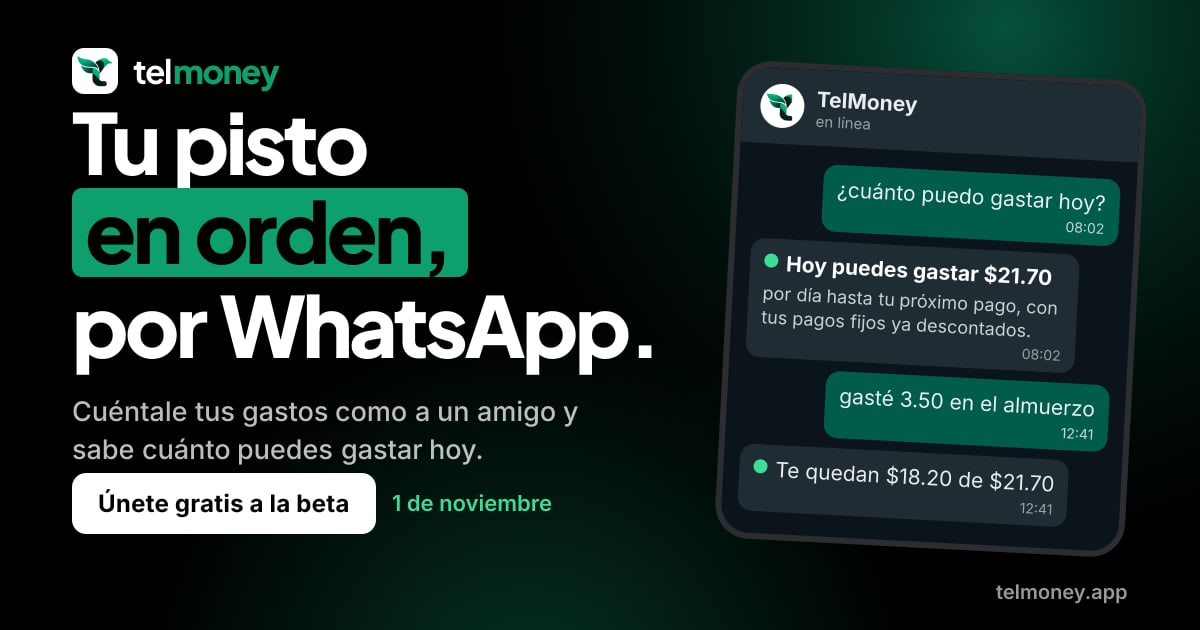
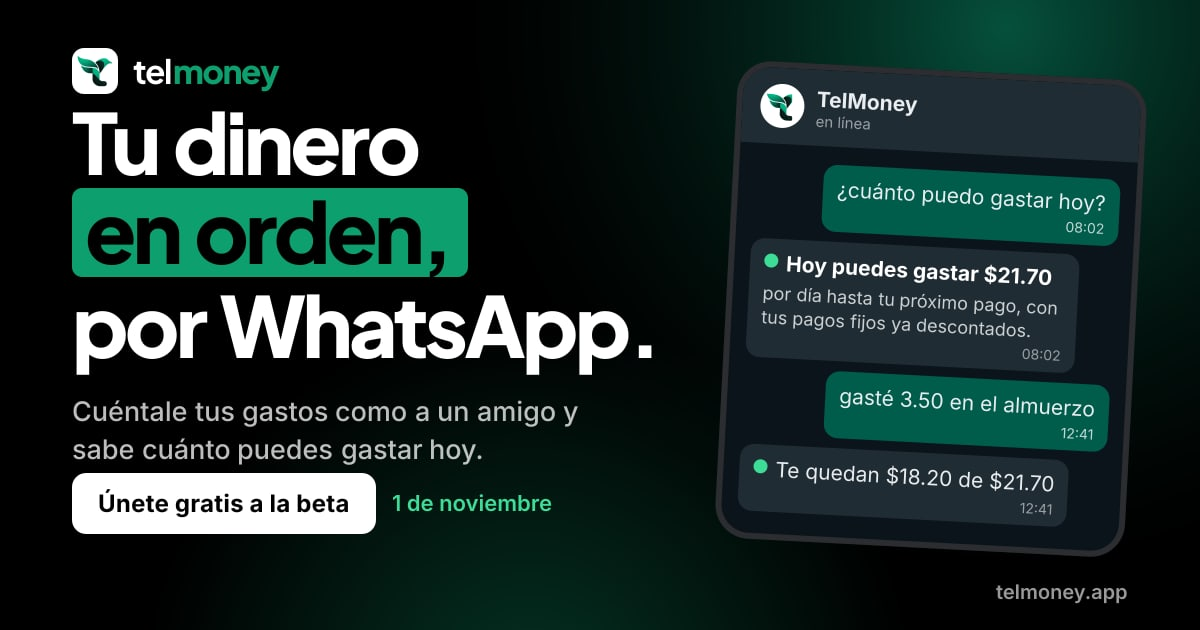
feat(copy): «dinero» en lugar del modismo local en todo el sitio
La página va a llegar a gente de varios países: todos los textos
públicos usan «dinero». Cambian el lema («Tu dinero en orden, por
WhatsApp»), el título de Google (61 caracteres, 571 px: entra completo),
og:title, el texto alternativo de la imagen, las imágenes para compartir
(regeneradas, ?v=3), los mensajes de los botones, el formulario, el footer
y la documentación.

La opción «Llegar a fin de mes con dinero» cambió de texto: se pidió al
endpoint del bot que la acepte (y que siga aceptando la anterior).

Changed region(s): [[0.1233, 0.181, 0.37, 0.3016]]

diff --git a/src/seo/meta.ts b/src/seo/meta.ts
@@ -17,26 +17,26 @@ export const SEO = {
   /** Facebook no reconoce es_SV: para Latinoamérica usa es_LA. */
   ogLocale: 'es_LA',
 
-  /** 60 caracteres: marca + lo que se busca + el lema. */
-  title: 'TelMoney: control de gastos por WhatsApp | Tu pisto en orden',
+  /** 61 caracteres / 571 px (Google corta cerca de 580 px): marca + lo que se busca + el lema. */
+  title: 'TelMoney: control de gastos por WhatsApp | Tu dinero en orden',
   /** ≈150 caracteres: qué hace, el beneficio y el llamado a la acción. */
   description: LAUNCHED
     ? 'Anota tus gastos con un mensaje, un audio o la foto del recibo. TelMoney te dice cuánto puedes gastar hoy y te avisa antes de cada pago. Pruébalo gratis.'
     : 'Anota tus gastos con un mensaje, un audio o la foto del recibo. TelMoney te dice cuánto puedes gastar hoy y te avisa antes de cada pago. Únete a la beta.',
 
   /** Para redes: el lema manda; el nombre ya aparece como og:site_name. */
-  ogTitle: 'Tu pisto en orden, por WhatsApp',
+  ogTitle: 'Tu dinero en orden, por WhatsApp',
   ogDescription: `Sabe cuánto puedes gastar hoy con un mensaje de WhatsApp. ${CTA_SOCIAL}`,
 
   /** Imagen para compartir: 1200×630 (1.91:1), JPEG liviano (WhatsApp no muestra imágenes pesadas).
    *  Se genera con «npm run og» (scripts/og.mjs). Si cambia el diseño, sube el número de ?v=
    *  para que WhatsApp y Facebook no sigan mostrando la versión vieja guardada en caché. */
   image: {
-    path: '/og/telmoney-og.jpg?v=2',
+    path: '/og/telmoney-og.jpg?v=3',
     width: 1200,
     height: 630,
     type: 'image/jpeg',
-    alt: 'TelMoney: tu pisto en orden, por WhatsApp. Un chat responde «Hoy puedes gastar $21.70».',
+    alt: 'TelMoney: tu dinero en orden, por WhatsApp. Un chat responde «Hoy puedes gastar $21.70».',
   },
 };
 

diff --git a/src/seo/share.ts b/src/seo/share.ts
@@ -21,8 +21,8 @@ const CTA = LAUNCHED ? 'Pruébalo gratis 7 días' : 'La beta abre el 1 de noviem
 
 export const shareText = {
   chat: `Mira esto 👀 TelMoney te dice cuánto puedes gastar hoy, solo con mensajes de WhatsApp. ${CTA}:`,
-  x: `Tu pisto en orden, por WhatsApp 💚 Le escribes tus gastos como a un amigo y te dice cuánto puedes gastar hoy. ${CTA} 👇`,
-  emailSubject: 'Para que el pisto te alcance todo el mes',
+  x: `Tu dinero en orden, por WhatsApp 💚 Le escribes tus gastos como a un amigo y te dice cuánto puedes gastar hoy. ${CTA} 👇`,
+  emailSubject: 'Para que el dinero te alcance todo el mes',
   emailBody: `Encontré TelMoney: le escribes tus gastos por WhatsApp como a un amigo y te dice cuánto puedes gastar hoy, con tus pagos fijos ya descontados. ${CTA}:`,
 };
 

diff --git a/src/config.ts b/src/config.ts
@@ -32,7 +32,7 @@ export const SITE = {
   name: 'TelMoney',
   /** Dominio público (sin «/» final). Las imágenes para compartir necesitan URLs absolutas. */
   url: (env.PUBLIC_SITE_URL || 'https://telmoney.app').replace(/\/$/, ''),
-  tagline: 'Tu pisto en orden, por WhatsApp.',
+  tagline: 'Tu dinero en orden, por WhatsApp.',
   instagram: 'https://instagram.com/telmoney.sv',
   tiktok: 'https://tiktok.com/@telmoney.sv',
   /** Usuario de X sin «@». Vacío = no se publica twitter:site. */

diff --git a/docs/seo-y-redes.md b/docs/seo-y-redes.md
@@ -8,7 +8,7 @@ Cómo encuentra Google a TelMoney, cómo se ve el link cuando alguien lo compart
 |---|---|---|
 | Imagen al compartir (`og:image`) | ❌ No había: el link salía sin imagen | ✅ 1200×630, 70 KB, con el lema, la prueba (chat) y el llamado a la acción |
 | Tarjeta de X | Solo el tipo | ✅ Título, descripción, imagen y texto alternativo |
-| Título para Google | «TelMoney · Tu pisto en orden, por WhatsApp» (sin lo que la gente busca) | ✅ «TelMoney: control de gastos por WhatsApp \| Tu pisto en orden» (60) |
+| Título para Google | Solo la marca y el lema, sin lo que la gente busca | ✅ «TelMoney: control de gastos por WhatsApp \| Tu dinero en orden» (61 caracteres, 571 px: entra sin cortarse) |
 | Descripción | Buena, sin llamado a la acción | ✅ 153 caracteres, termina en «Únete a la beta» |
 | Título y descripción al compartir | Los mismos que para Google | ✅ Propios: el lema y una frase de ~90 caracteres que entra completa en WhatsApp |
 | Idioma para redes | `es_SV` (Facebook no lo reconoce) | ✅ `es_LA`; página en `lang="es"` |
@@ -21,19 +21,19 @@ Cómo encuentra Google a TelMoney, cómo se ve el link cuando alguien lo compart
 
 ## 2. Mensajes
 
-- **Lema:** «Tu pisto en orden, por WhatsApp.»
+- **Lema:** «Tu dinero en orden, por WhatsApp.» Se usa «dinero» y no modismos locales, para que lo entienda gente de cualquier país.
 - **Promesa en una línea:** «Sabe cuánto puedes gastar hoy con un mensaje de WhatsApp.»
 - **Llamado a la acción:** hasta el 1/11, «Únete gratis a la beta · 1 de noviembre». Desde el lanzamiento, «Pruébalo gratis 7 días». Cambia solo con `PUBLIC_WHATSAPP_NUMBER`.
 
 | Dónde | Texto | Por qué |
 |---|---|---|
-| Google (título) | TelMoney: control de gastos por WhatsApp \| Tu pisto en orden | Lo que se busca va al principio; el lema da la personalidad |
+| Google (título) | TelMoney: control de gastos por WhatsApp \| Tu dinero en orden | Lo que se busca va al principio; el lema da la personalidad |
 | Google (descripción) | Anota tus gastos con un mensaje, un audio o la foto del recibo… Únete a la beta. | Cómo se usa, el beneficio y la acción |
-| Al compartir (título) | Tu pisto en orden, por WhatsApp | El nombre ya aparece aparte (`og:site_name`) |
+| Al compartir (título) | Tu dinero en orden, por WhatsApp | El nombre ya aparece aparte (`og:site_name`) |
 | Al compartir (descripción) | Sabe cuánto puedes gastar hoy con un mensaje de WhatsApp. Beta gratis el 1 de noviembre. | Entra completa en las 2 líneas de WhatsApp |
 | Botón WhatsApp / Telegram | Mira esto 👀 TelMoney te dice cuánto puedes gastar hoy… La beta abre el 1 de noviembre y es gratis: | Suena a un amigo, no a un anuncio |
-| Botón X | Tu pisto en orden, por WhatsApp 💚 … 👇 | Corto, con el lema |
-| Correo | Asunto: «Para que el pisto te alcance todo el mes» | Beneficio en el asunto |
+| Botón X | Tu dinero en orden, por WhatsApp 💚 … 👇 | Corto, con el lema |
+| Correo | Asunto: «Para que el dinero te alcance todo el mes» | Beneficio en el asunto |
 
 Todos los textos viven en `src/seo/meta.ts` y `src/seo/share.ts`.
 

diff --git a/docs/resumen-de-trabajo.md b/docs/resumen-de-trabajo.md
@@ -58,20 +58,29 @@ Qué se hizo, dónde está y qué queda pendiente. Para revisar con calma.
 La guía completa está en [`seo-y-redes.md`](seo-y-redes.md). En resumen:
 
 - **Google:**
-  - Título «TelMoney: control de gastos por WhatsApp \| Tu pisto en orden» (60 caracteres).
+  - Título «TelMoney: control de gastos por WhatsApp \| Tu dinero en orden» (61 caracteres, entra sin cortarse).
   - Descripción de 153 caracteres que termina en «Únete a la beta».
   - Datos estructurados: empresa, sitio, la app con sus 2 planes en USD y las preguntas.
   - robots.txt y sitemap.
   - Páginas legales provisionales con `noindex`.
 - **Al compartir** (WhatsApp, Facebook, LinkedIn, X, Telegram):
   - Imagen de 1200×630 (70 KB) con el lema, un chat que responde «Hoy puedes gastar $21.70» y «Únete gratis a la beta · 1 de noviembre».
-  - Título «Tu pisto en orden, por WhatsApp» y una descripción que entra completa en WhatsApp.
+  - Título «Tu dinero en orden, por WhatsApp» y una descripción que entra completa en WhatsApp.
 - **Botones para compartir:**
   - Están en el «¡Listo!» de la beta y en el footer.
   - Cada red tiene su mensaje, y todos llevan `utm_*`. La lista de espera guarda esos `utm`, así se ve qué red trae más registros.
 - **Todo cambia solo el día del lanzamiento:** al poner `PUBLIC_WHATSAPP_NUMBER`, el llamado a la acción pasa a «Pruébalo gratis 7 días».
 
+## 5. «Dinero» en lugar del modismo local
+
+Para que lo entienda gente de cualquier país, todos los textos públicos usan «dinero»: el lema («Tu dinero en orden, por WhatsApp»), el título de Google, las imágenes para compartir (regeneradas, versión `?v=3`), los mensajes de los botones, el formulario y el manifiesto. No queda ningún modismo local en el código ni en la página compilada.
+
+- El título de Google quedó en 61 caracteres, pero mide 571 px y Google corta cerca de 580 px: entra completo.
+- Una opción del formulario cambió de texto («Llegar a fin de mes con dinero»). Se le pidió a @bot que el endpoint la acepte (y que siga aceptando la anterior). Si el servidor rechaza algo que no es un campo visible, el formulario ahora muestra un aviso claro en vez de fallar en silencio.
+
 ## Pendiente (lo tuyo)
+
+0. **Confirmar con @bot** que el endpoint `/waitlist` acepta la opción «Llegar a fin de mes con dinero». Además, el túnel temporal del bot está caído: hay que levantarlo o, mejor, publicar el bot en `api.telmoney.app`.
 
 1. **Publicar en telmoney.app:** el paso a paso de hosting, DNS, variables, Google Search Console y la revisión de vistas previas está en [`seo-y-redes.md`, sección 4](seo-y-redes.md#4-paso-a-paso-para-publicar-en-telmoneyapp).
 2. **Endpoint fijo de la lista de espera:** hoy `.env` apunta a un túnel temporal de Cloudflare que cambia al reiniciar el bot. Hace falta un dominio fijo, por ejemplo `api.telmoney.app/waitlist`.
